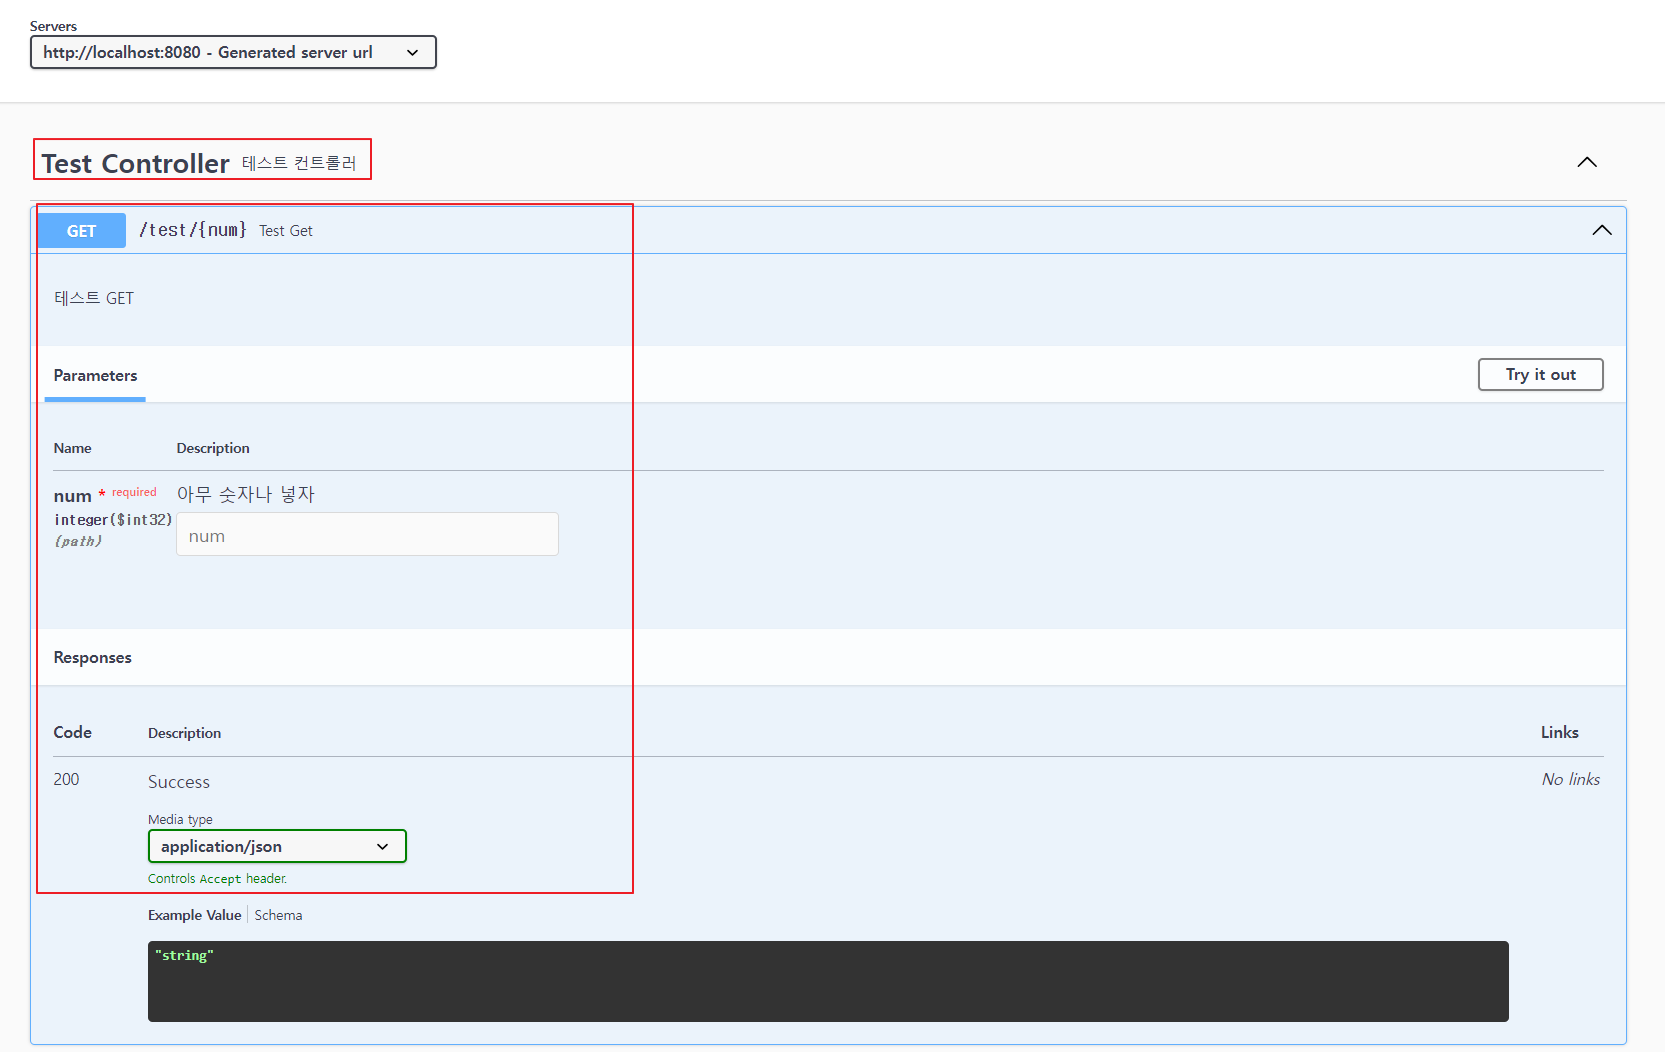
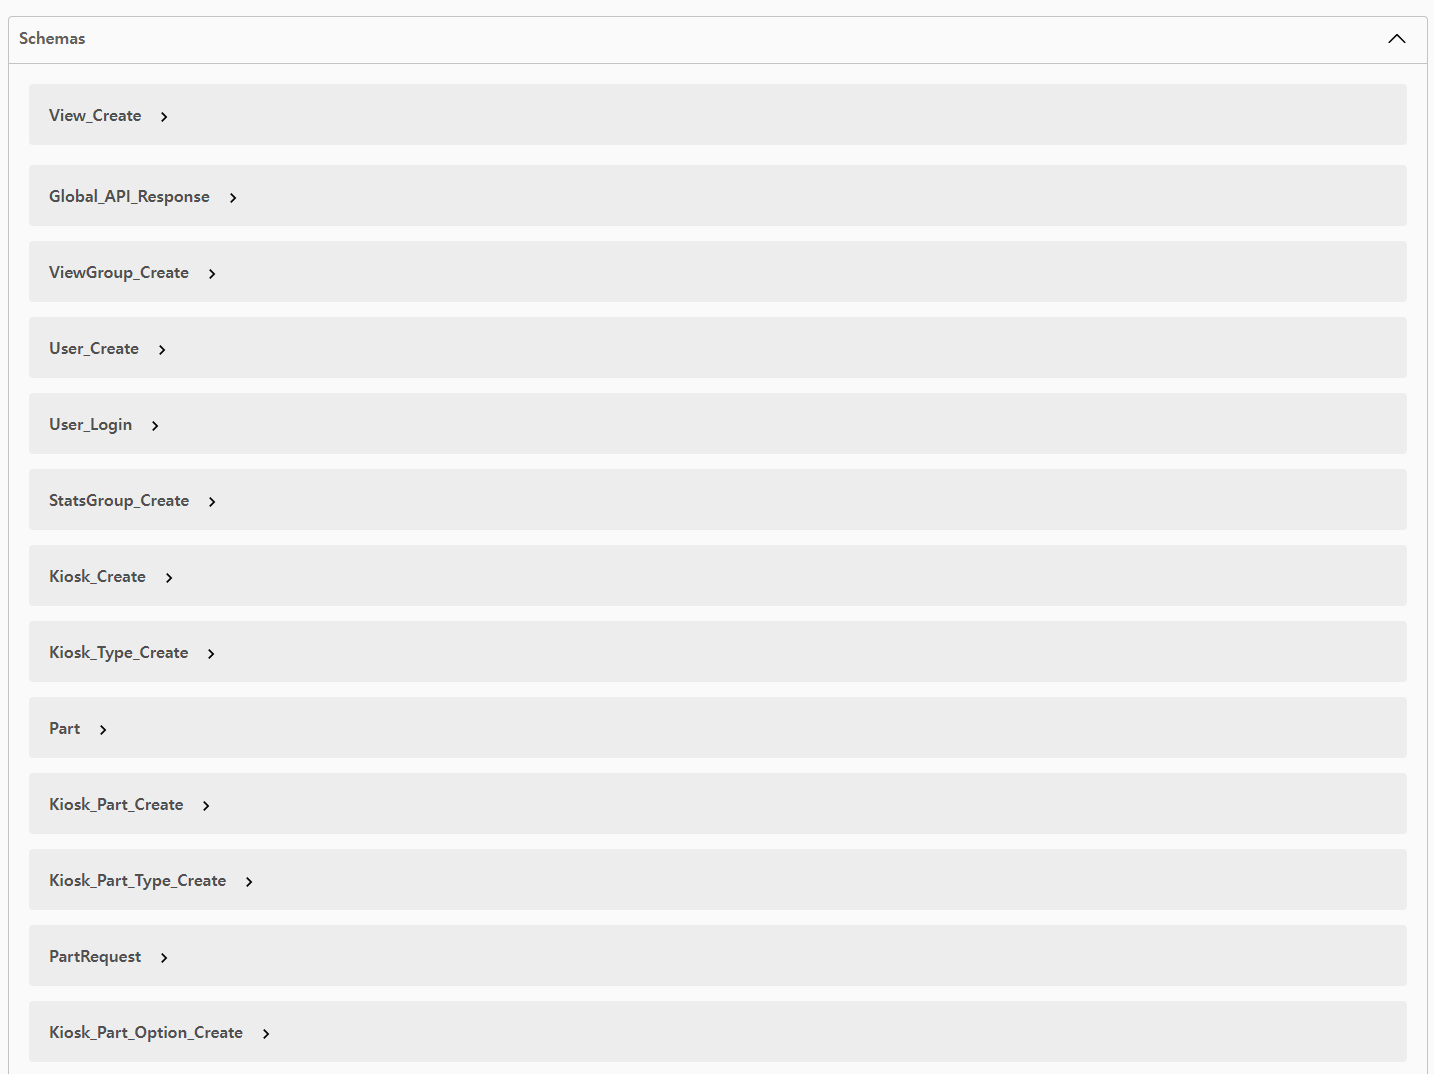
Swagger Export 방법 추가

diff --git a/Backend/Spring/Utils/Swagger/Swagger API.md b/Backend/Spring/Utils/Swagger/Swagger API.md
@@ -22,7 +22,7 @@ application.yml 설정해서 Path 설정을 안한다면 기본 Path는 `{Server
 ---
 ## 📚 Configuration
 
-**build.gradle**
+### **build.gradle**
 
 - 버전은 공식 홈페이지에서 확인해서 넣어줍니다.
 
@@ -32,7 +32,7 @@ implementation 'org.springdoc:springdoc-openapi-starter-webmvc-ui:2.5.0'
 
 <br>
 
-**application.yml**
+### **application.yml**
 
 - 세부 Property는 [여기](https://springdoc.org/#properties)서 확인 가능합니다.
 
@@ -61,7 +61,7 @@ springdoc:
 
 <br>
 
-**OpenApiConfig**
+### **OpenApiConfig**
 
 - @OpenAPIDefinition을 이용해 전체 API 문서의 타이틀, 설명, 버전을 넣어줍니다.
 - `openApi Bean` : Security Schema를 이용해 Swagger에서 Authorization Header에 JWT 토큰을 입력할 수 있게 해줍니다.
@@ -102,6 +102,22 @@ public class OpenApiConfig {
     }
 }
 ```
+
+<br>
+
+### **🧙♀ 정렬되기 전 Schema**
+
+- 정렬되지 않은 Schema는 읽기가 매우 불편합니다.
+
+![](./1.png)
+
+<br>
+
+### **🧙♀ 정렬된 Schema**
+
+- 편-안
+
+![](./2.png)
 
 ---
 ## 📚 Annotaions
@@ -246,4 +262,41 @@ public class OpenApiController {
 
 서버를 실행시키고 `{Server IP}:{Port}/index.html`를 들어가보면 잘 나옵니다 ㅎ
 
-![](./1.png)
+![](./3.png)
+
+---
+
+## 📚 Export Rest API Docs
+
+서버를 켜지 않았을 때 다른 부서에 API Docs를 보여주고 싶다면 아래와 같은 방법을 이용해 Swagger의 API들을 Export 할 수 있습니다.
+
+<br>
+
+### 1. 서버를 켜고 Swagger 상단의 Json 링크로 진입해 Json을 복사합니다.
+
+![](./4.png)
+
+![](./5.png)
+
+<br>
+
+### 2. Swagger Editor 사이트에 접속
+
+- [Swagger Editor](https://editor-next.swagger.io/)
+- 접속 후 나오자는 왼쪽 yaml 코드 입력 창에 복사한 Json을 붙여넣으면 Yaml로 변환됩니다.
+- 아래 사진에서 API에 잘못된 파라미터나 Yaml Syntex에 안맞는 부분들을 전부 수정해 빨간 에러 느낌표를 전부 없애줍니다.
+
+![](./6.png)
+
+<br>
+
+- 모든 에러를 잡았다면 아래와 사진의 1번과 같이 빨간줄이 사라집니다.
+- 이후 2번의 Generate Client -> 3번 HTML2를 선택하면 `.zip` 파일의 문서가 완성됩니다.
+
+![](./7.png)
+
+<br>
+
+- 마지막으로 알집을 풀어 index.html 파일을 열어보면 서버를 키지 않아도 정적인 Rest API Docs가 완성됩니다!
+
+![](./8.png)
